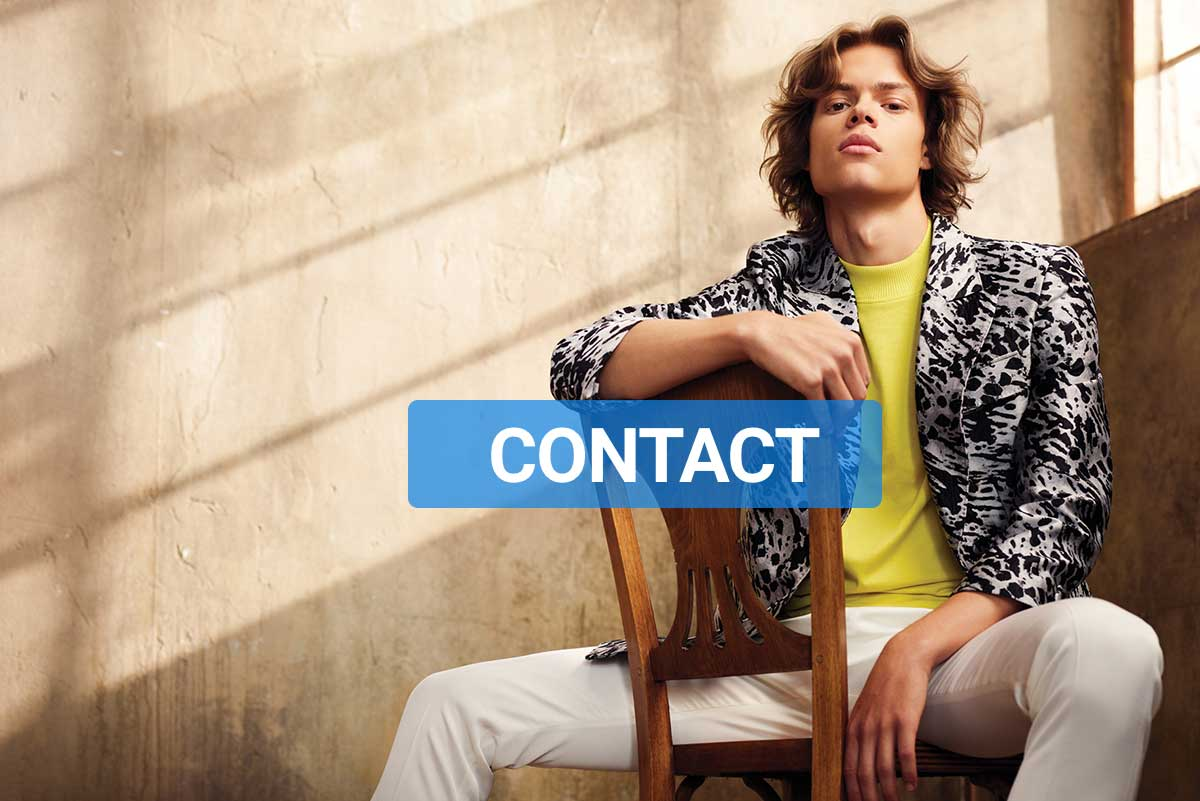
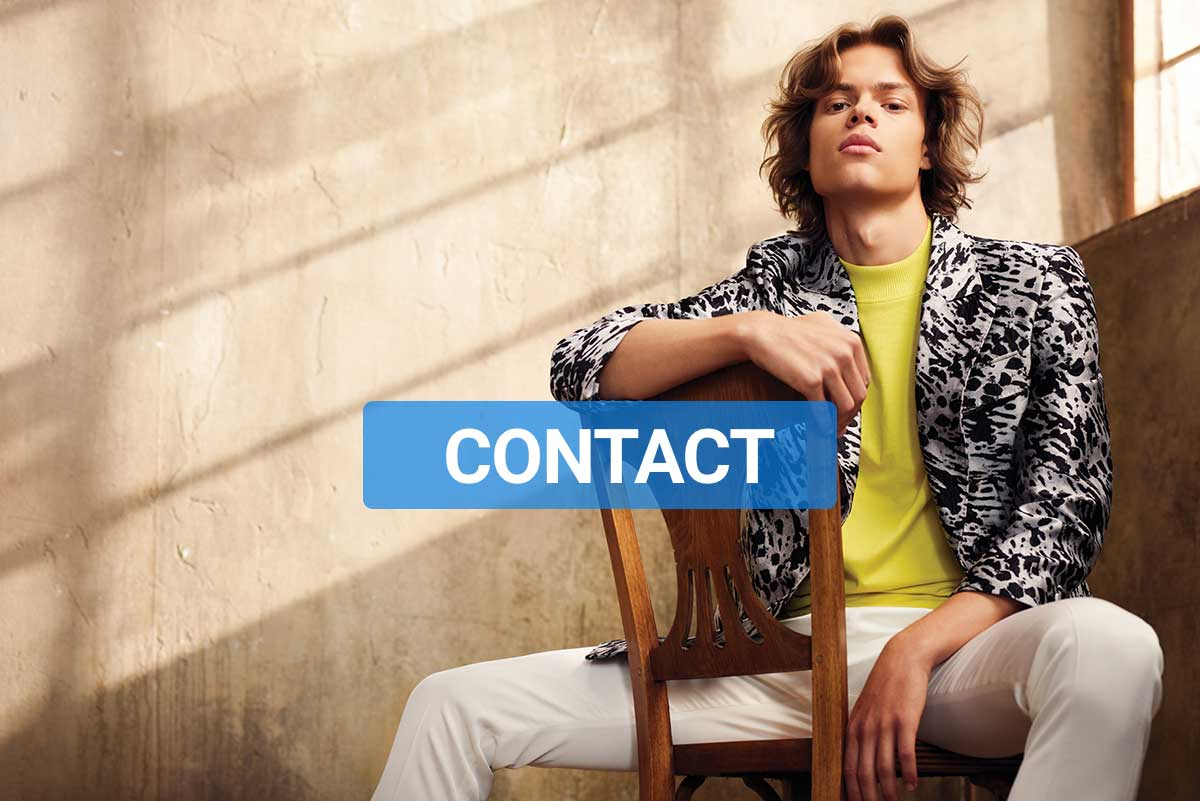
added full screen
mobile and web size responsive complete

Changed region(s): [[0.37, 0.4994, 0.74, 0.6554], [0.2775, 0.4994, 0.37, 0.6554]]

diff --git a/Midterm v2/header.css b/Midterm v2/header.css
@@ -3,6 +3,10 @@ ul.nav-links {
     display: none;
 }
 
+.header{
+    max-width: 960px;
+}
+
 .logo{
     max-width: 200px;
     margin: 10px;
@@ -16,5 +20,69 @@ ul.nav-links {
     width: 65px;
     float: right;
     margin-top: 25px;
-    margin-right: 12px;
+    margin-right: 12px;    
 }
+
+
+ul.nav-links{
+    list-style: none;
+    padding-left: 0px;
+}
+
+ul.nav-links li{
+    padding: 10px;
+    border-bottom: 2px solid #0f75bc;
+    text-align: right;
+}
+
+ul.nav-links a{
+    text-decoration: none;
+    text-transform: uppercase;
+    color:#000000;
+}
+
+ul img{
+    width:35px;
+}
+
+a {
+    color: black;
+}
+
+@media(min-width: 768px){
+    header {
+        max-width: 1000px;
+        margin: auto;
+    }
+
+    .logo{
+        max-width: 250px;
+        margin-top: 10px;
+        margin-left: 15px;
+    }
+
+    ul.nav-links {
+        display: flex;
+        float:right;
+        flex-direction: row;
+        align-items: baseline;
+        align-content: space-around;
+        margin-top:35px;
+        margin-right:15px;
+        max-width:50%;
+    }
+
+    ul.nav-links li{
+        border-bottom: none;
+        padding: 25px;
+    }
+
+    ul img{
+        width:35px;
+    }
+
+    .toggle-button{
+        display: none;
+    }
+
+    } 

diff --git a/Midterm v2/index.html b/Midterm v2/index.html
@@ -17,20 +17,25 @@
             <label for="toggleAssist"><img src="images/scissor_menu_button.png" alt="scissor shaped menu button" img class="toggle-button"></label>
             <input type="checkbox" id="toggleAssist">
 
-            <ul class="nav-links">
+            <ul class="nav-links flexnav">
                 <li><a href="#">Home</a></li>
                 <li><a href="#">About</a></li>
                 <li><a href="#">Services</a></li>
+                <li><a href="#"><img src="images/Instagram logo.png"></a></li>
             </ul>
         </nav>
 
     </header>
 
     <main>
-        <div class="flex">
+        <div class="flex img-row-1">
             <img src="images/hair_1_services.jpg" alt="hair model 1">
-            <img src="images/hair_2_contact.jpg" alt="hair model 2">
+            <img src="images/hair_2_contact.jpg" alt="hair model 2" class="row-2-sm">
             <img src="images/hair_3_about.jpg" alt="hair model 3">
+        </div>
+
+        <div class="flex img-row-2">
+            <img src="images/hair_2_contact.jpg" alt="hair model 2" class="row-2-lg">
         </div>
        
 

diff --git a/Midterm v2/main.css b/Midterm v2/main.css
@@ -6,26 +6,7 @@ body {
     font-family: Arial, Helvetica, sans-serif;
 }
 
-ul.nav-links{
-    list-style: none;
-    padding-left: 0px;
-}
 
-ul.nav-links li{
-    padding: 10px;
-    border-bottom: 2px solid #0f75bc;
-    text-align: right;
-}
-
-ul.nav-links a{
-    text-decoration: none;
-    text-transform: uppercase;
-    color:#000000;
-}
-
-a {
-    color: black;
-}
 
 .flex{
     display:flex;
@@ -34,8 +15,37 @@ a {
     margin-left: auto;
     margin-right: auto;
     align-items: center;
+    padding: 2px;
 }
 
 .flex img{
     max-width: 100%;
+    padding: 2px;
 }
+
+.flex img.row-2-lg{
+    display:none;
+}
+
+@media(min-width: 768px){
+    .flex{
+        display:flex;
+        flex-direction: row;
+        max-width:1000px;
+        margin-left: auto;
+        margin-right: auto;
+        align-items: center;
+    }
+
+    .flex img{
+        max-width: 100%;
+        padding: 3px;
+    }
+
+    .flex img.row-2-sm{
+        display:none;
+    }
+
+    .flex img.row-2-lg{
+        display:flex;
+    }
